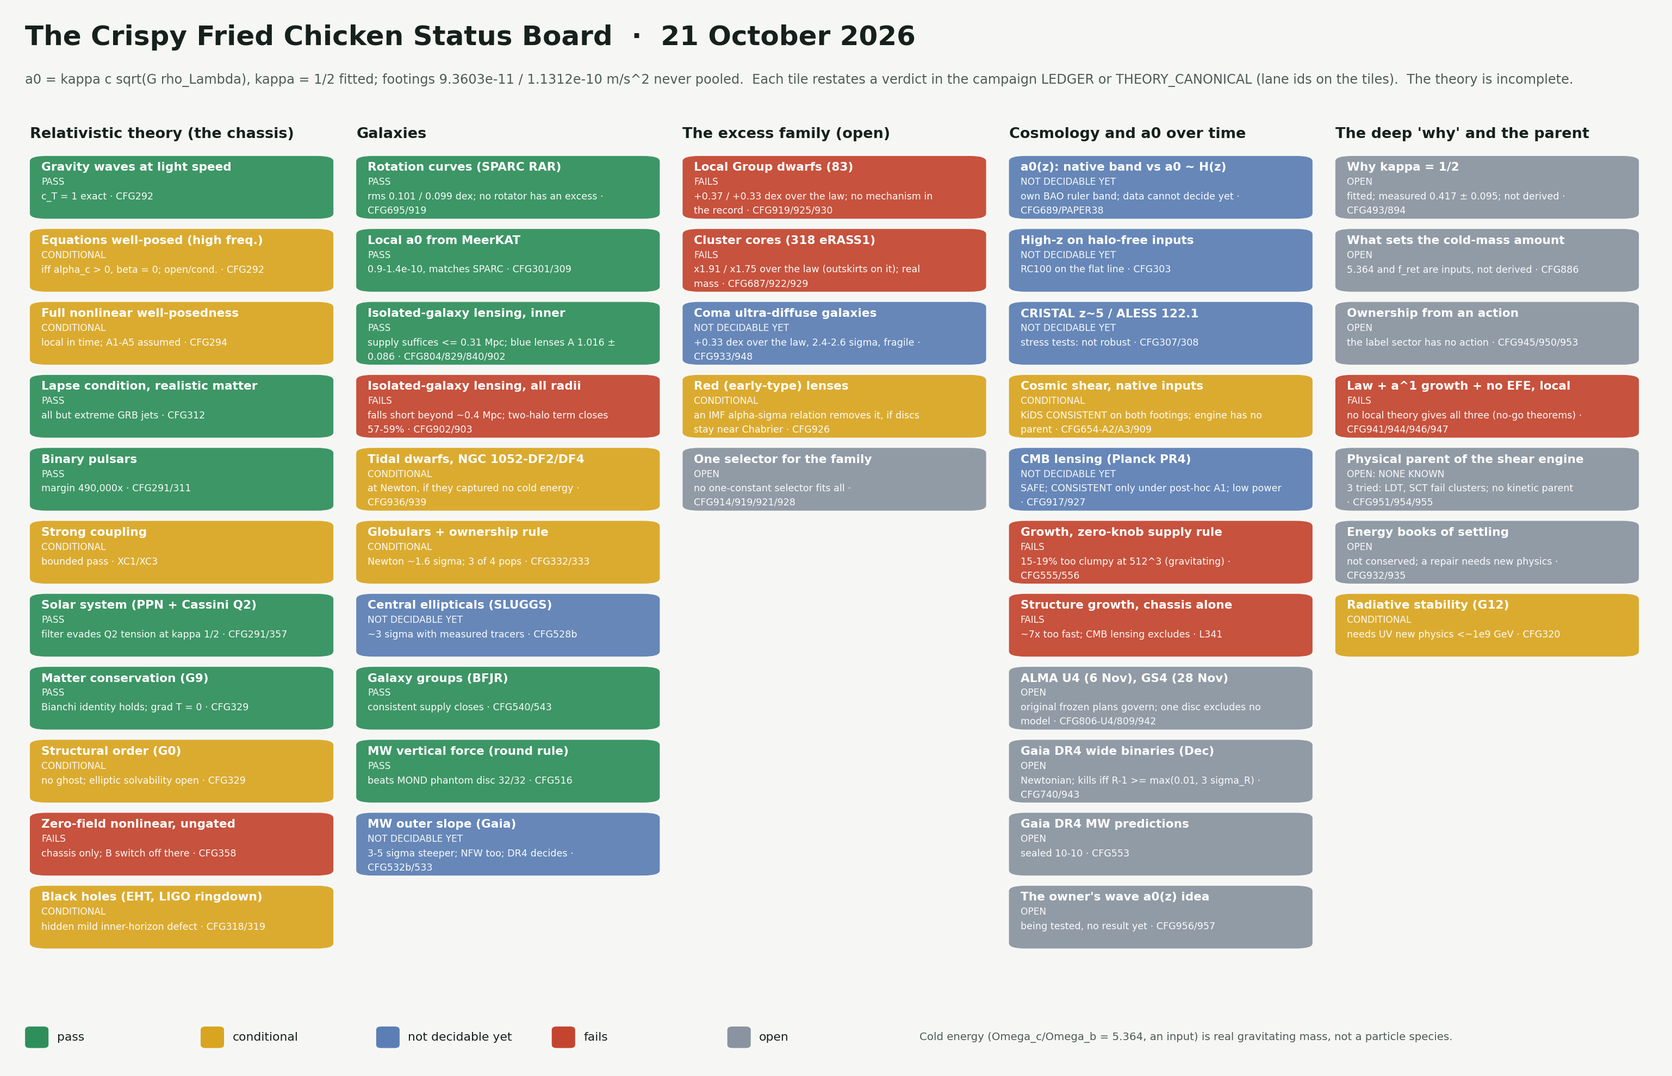
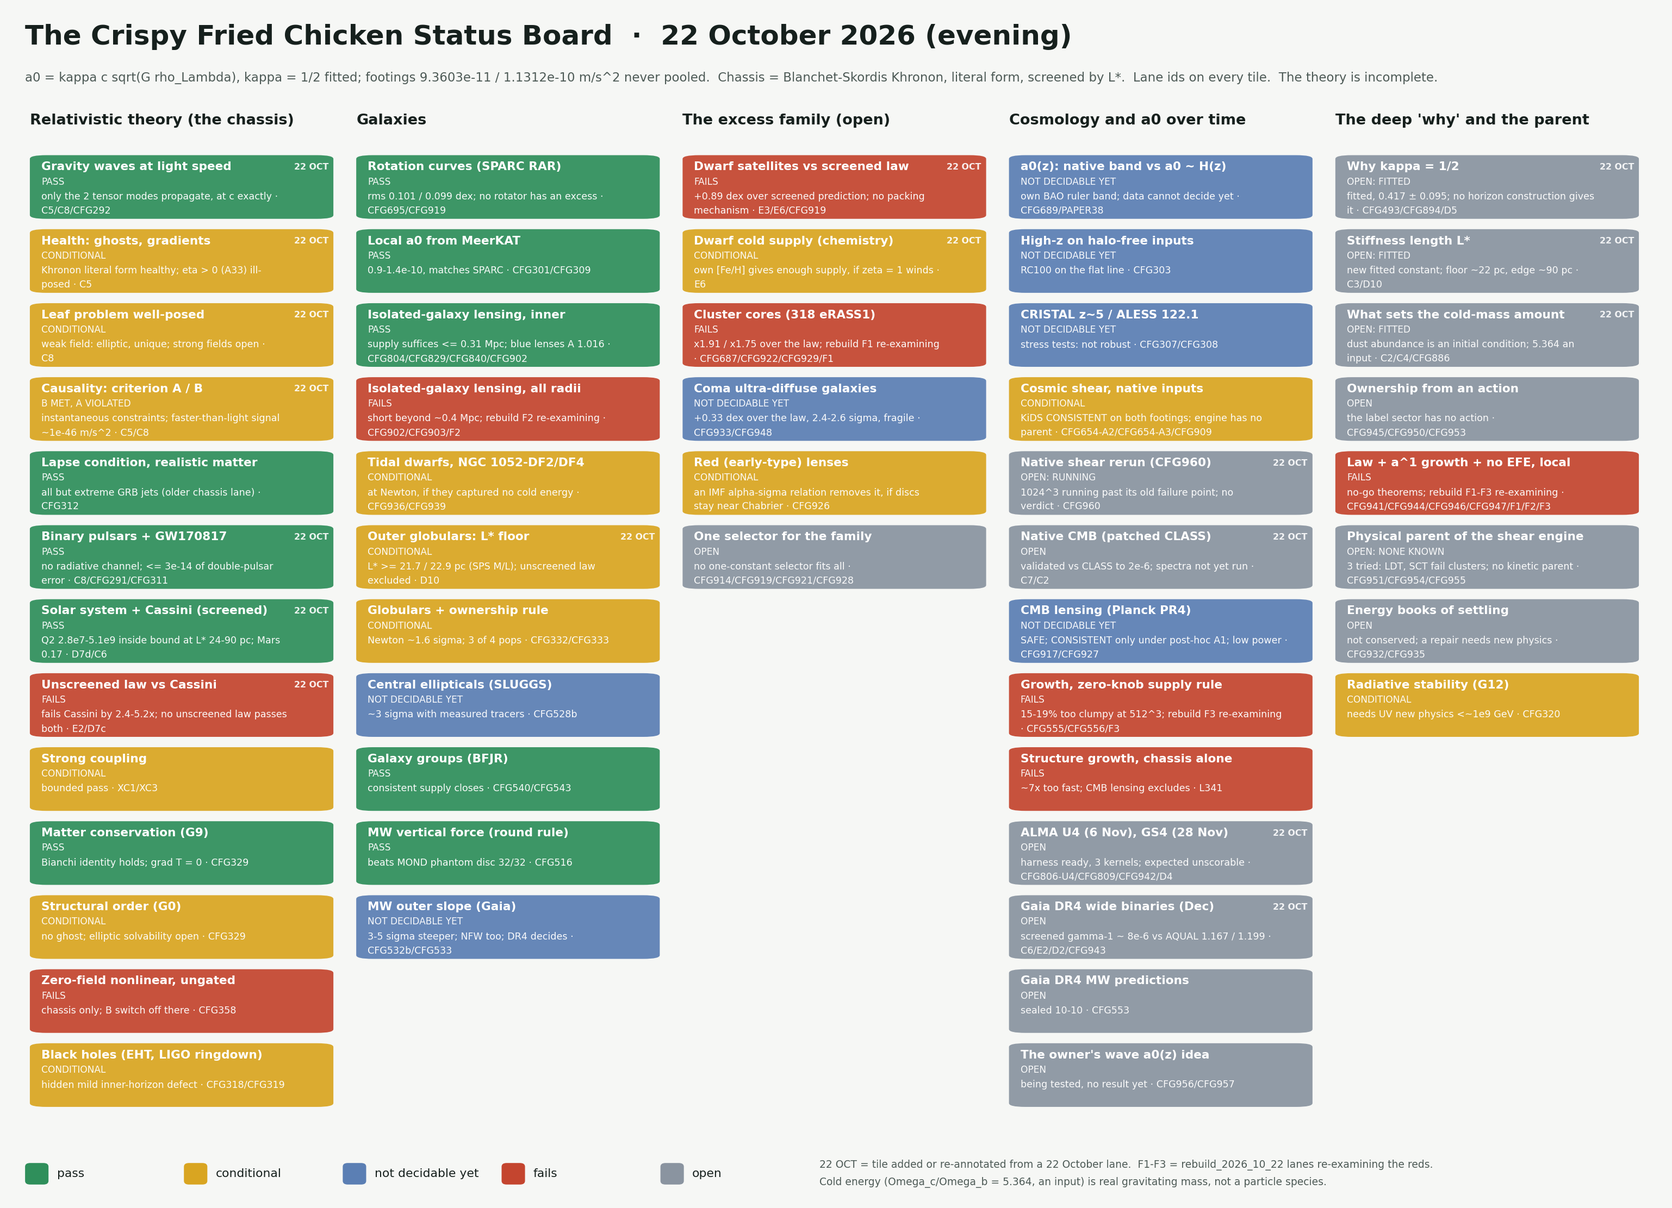
Status board image redrawn to the 22 October evening state (explainers/make_status_board.py, matplotlib; --mutate strips one evidence lane and must fail). No tile changed colour; 17 tiles added or re-annotated from committed 22 October lanes (Khronon literal chassis C5/C8, causality A violated/B met

diff --git a/explainers/make_status_board.py b/explainers/make_status_board.py
@@ -1,0 +1,220 @@
+#!/usr/bin/env python3
+"""The Crispy Fried Chicken status board, 22 October 2026 (evening). Plot only.
+
+Every tile restates a verdict recorded in campaign_fresh_gravity/LEDGER.md, THEORY_CANONICAL_2026-10-18.md, or a
+committed lane of 22 October (doors_push_2026_10_22/, covariant_push_2026_10_22/, summarised in
+covariant_push_2026_10_22/THEORY_V3_DRAFT.md). Layout and colours follow the 21 October board
+(campaign_fresh_gravity/closure_map/status_picture_2026_10_21.py, left unedited).
+
+Re-scoring rule for this board: a tile changes colour only if a committed 22 October lane changes it; nothing turns
+green without a committed lane that passes it; unresolved reds stay red. Each tile records its 21 October colour
+(`prev`, None for a tile new on this board) so the checks below can enforce that rule.
+
+kappa = 1/2 is FITTED; footings never pooled; cold energy is real gravitating mass, not a particle species;
+the theory is not closed.
+
+Run:  OMP_NUM_THREADS=1 python3 explainers/make_status_board.py            (writes explainers/img/status_board.png)
+      OMP_NUM_THREADS=1 python3 explainers/make_status_board.py --mutate   (strips one tile's evidence lane; the
+                                                                            checks must FAIL and nothing is written)
+One core, seconds, < 0.3 GB.
+"""
+import copy
+import os
+import re
+import sys
+import textwrap
+
+import matplotlib
+matplotlib.use("Agg")
+import matplotlib.pyplot as plt
+from matplotlib.patches import FancyBboxPatch
+
+HERE = os.path.dirname(os.path.abspath(__file__))
+OUT = os.path.join(HERE, "img", "status_board.png")
+
+COL = {"PASS": "#2f8f5b", "COND": "#d9a521", "OPEN": "#8a94a0", "FAIL": "#c4452f", "UNDEC": "#5b7fb4"}
+LAB = {"PASS": "pass", "COND": "conditional", "OPEN": "open", "FAIL": "fails", "UNDEC": "not decidable yet"}
+COLUMNS = ["Relativistic theory (the chassis)", "Galaxies", "The excess family (open)",
+           "Cosmology and a0 over time", "The deep 'why' and the parent"]
+# Lane ids committed on 22 October (doors push D*/E*, covariant push C*, CFG960 amendment A6, rebuild brief F*).
+LANE_22 = re.compile(r"^(C[1-8]|D\d+[a-d]?|E[1-6]|CFG960|F[1-4])$")
+
+
+def T(col, name, st, note, lanes, prev, lab=None, new22=False):
+    """One tile: column index, label, colour (status), note, evidence lane ids, 21 October colour."""
+    return dict(col=col, name=name, st=st, note=note, lanes=list(lanes), prev=prev, lab=lab, new22=new22)
+
+
+TILES = [
+    # ---- column 0: the chassis, now the Blanchet-Skordis Khronon theory in its literal form (C4) ----
+    T(0, "Gravity waves at light speed", "PASS", "only the 2 tensor modes propagate, at c exactly", ["C5", "C8", "CFG292"], "PASS", new22=True),
+    T(0, "Health: ghosts, gradients", "COND", "Khronon literal form healthy; eta > 0 (A33) ill-posed", ["C5"], "COND", new22=True),
+    T(0, "Leaf problem well-posed", "COND", "weak field: elliptic, unique; strong fields open", ["C8"], "COND", new22=True),
+    T(0, "Causality: criterion A / B", "COND", "instantaneous constraints; faster-than-light signal ~1e-46 m/s^2", ["C5", "C8"], None,
+      lab="B met, A violated", new22=True),
+    T(0, "Lapse condition, realistic matter", "PASS", "all but extreme GRB jets (older chassis lane)", ["CFG312"], "PASS"),
+    T(0, "Binary pulsars + GW170817", "PASS", "no radiative channel; <= 3e-14 of double-pulsar error", ["C8", "CFG291", "CFG311"], "PASS", new22=True),
+    T(0, "Solar system + Cassini (screened)", "PASS", "Q2 2.8e7-5.1e9 inside bound at L* 24-90 pc; Mars 0.17", ["D7d", "C6"], "PASS",
+      new22=True),
+    T(0, "Unscreened law vs Cassini", "FAIL", "fails Cassini by 2.4-5.2x; no unscreened law passes both", ["E2", "D7c"], None, new22=True),
+    T(0, "Strong coupling", "COND", "bounded pass", ["XC1", "XC3"], "COND"),
+    T(0, "Matter conservation (G9)", "PASS", "Bianchi identity holds; grad T = 0", ["CFG329"], "PASS"),
+    T(0, "Structural order (G0)", "COND", "no ghost; elliptic solvability open", ["CFG329"], "COND"),
+    T(0, "Zero-field nonlinear, ungated", "FAIL", "chassis only; B switch off there", ["CFG358"], "FAIL"),
+    T(0, "Black holes (EHT, LIGO ringdown)", "COND", "hidden mild inner-horizon defect", ["CFG318", "CFG319"], "COND"),
+    # ---- column 1: galaxies ----
+    T(1, "Rotation curves (SPARC RAR)", "PASS", "rms 0.101 / 0.099 dex; no rotator has an excess", ["CFG695", "CFG919"], "PASS"),
+    T(1, "Local a0 from MeerKAT", "PASS", "0.9-1.4e-10, matches SPARC", ["CFG301", "CFG309"], "PASS"),
+    T(1, "Isolated-galaxy lensing, inner", "PASS", "supply suffices <= 0.31 Mpc; blue lenses A 1.016", ["CFG804", "CFG829", "CFG840", "CFG902"], "PASS"),
+    T(1, "Isolated-galaxy lensing, all radii", "FAIL", "short beyond ~0.4 Mpc; rebuild F2 re-examining", ["CFG902", "CFG903", "F2"], "FAIL"),
+    T(1, "Tidal dwarfs, NGC 1052-DF2/DF4", "COND", "at Newton, if they captured no cold energy", ["CFG936", "CFG939"], "COND"),
+    T(1, "Outer globulars: L* floor", "COND", "L* >= 21.7 / 22.9 pc (SPS M/L); unscreened law excluded", ["D10"], "COND", new22=True),
+    T(1, "Globulars + ownership rule", "COND", "Newton ~1.6 sigma; 3 of 4 pops", ["CFG332", "CFG333"], "COND"),
+    T(1, "Central ellipticals (SLUGGS)", "UNDEC", "~3 sigma with measured tracers", ["CFG528b"], "UNDEC"),
+    T(1, "Galaxy groups (BFJR)", "PASS", "consistent supply closes", ["CFG540", "CFG543"], "PASS"),
+    T(1, "MW vertical force (round rule)", "PASS", "beats MOND phantom disc 32/32", ["CFG516"], "PASS"),
+    T(1, "MW outer slope (Gaia)", "UNDEC", "3-5 sigma steeper; NFW too; DR4 decides", ["CFG532b", "CFG533"], "UNDEC"),
+    # ---- column 2: the excess family ----
+    T(2, "Dwarf satellites vs screened law", "FAIL", "+0.89 dex over screened prediction; no packing mechanism",
+      ["E3", "E6", "CFG919"], "FAIL", new22=True),
+    T(2, "Dwarf cold supply (chemistry)", "COND", "own [Fe/H] gives enough supply, if zeta = 1 winds", ["E6"], None, new22=True),
+    T(2, "Cluster cores (318 eRASS1)", "FAIL", "x1.91 / x1.75 over the law; rebuild F1 re-examining", ["CFG687", "CFG922", "CFG929", "F1"], "FAIL"),
+    T(2, "Coma ultra-diffuse galaxies", "UNDEC", "+0.33 dex over the law, 2.4-2.6 sigma, fragile", ["CFG933", "CFG948"], "UNDEC"),
+    T(2, "Red (early-type) lenses", "COND", "an IMF alpha-sigma relation removes it, if discs stay near Chabrier",
+      ["CFG926"], "COND"),
+    T(2, "One selector for the family", "OPEN", "no one-constant selector fits all", ["CFG914", "CFG919", "CFG921", "CFG928"], "OPEN"),
+    # ---- column 3: cosmology and a0 over time ----
+    T(3, "a0(z): native band vs a0 ~ H(z)", "UNDEC", "own BAO ruler band; data cannot decide yet", ["CFG689", "PAPER38"], "UNDEC"),
+    T(3, "High-z on halo-free inputs", "UNDEC", "RC100 on the flat line", ["CFG303"], "UNDEC"),
+    T(3, "CRISTAL z~5 / ALESS 122.1", "UNDEC", "stress tests: not robust", ["CFG307", "CFG308"], "UNDEC"),
+    T(3, "Cosmic shear, native inputs", "COND", "KiDS CONSISTENT on both footings; engine has no parent",
+      ["CFG654-A2", "CFG654-A3", "CFG909"], "COND"),
+    T(3, "Native shear rerun (CFG960)", "OPEN", "1024^3 running past its old failure point; no verdict", ["CFG960"], None,
+      lab="open: running", new22=True),
+    T(3, "Native CMB (patched CLASS)", "OPEN", "validated vs CLASS to 2e-6; spectra not yet run", ["C7", "C2"], None, new22=True),
+    T(3, "CMB lensing (Planck PR4)", "UNDEC", "SAFE; CONSISTENT only under post-hoc A1; low power", ["CFG917", "CFG927"], "UNDEC"),
+    T(3, "Growth, zero-knob supply rule", "FAIL", "15-19% too clumpy at 512^3; rebuild F3 re-examining", ["CFG555", "CFG556", "F3"], "FAIL"),
+    T(3, "Structure growth, chassis alone", "FAIL", "~7x too fast; CMB lensing excludes", ["L341"], "FAIL"),
+    T(3, "ALMA U4 (6 Nov), GS4 (28 Nov)", "OPEN", "harness ready, 3 kernels; expected unscorable", ["CFG806-U4", "CFG809", "CFG942", "D4"],
+      "OPEN", new22=True),
+    T(3, "Gaia DR4 wide binaries (Dec)", "OPEN", "screened gamma-1 ~ 8e-6 vs AQUAL 1.167 / 1.199", ["C6", "E2", "D2", "CFG943"], "OPEN",
+      new22=True),
+    T(3, "Gaia DR4 MW predictions", "OPEN", "sealed 10-10", ["CFG553"], "OPEN"),
+    T(3, "The owner's wave a0(z) idea", "OPEN", "being tested, no result yet", ["CFG956", "CFG957"], "OPEN"),
+    # ---- column 4: the deep 'why' and the parent ----
+    T(4, "Why kappa = 1/2", "OPEN", "fitted, 0.417 ± 0.095; no horizon construction gives it", ["CFG493", "CFG894", "D5"], "OPEN",
+      lab="open: fitted", new22=True),
+    T(4, "Stiffness length L*", "OPEN", "new fitted constant; floor ~22 pc, edge ~90 pc", ["C3", "D10"], None,
+      lab="open: fitted", new22=True),
+    T(4, "What sets the cold-mass amount", "OPEN", "dust abundance is an initial condition; 5.364 an input",
+      ["C2", "C4", "CFG886"], "OPEN", lab="open: fitted", new22=True),
+    T(4, "Ownership from an action", "OPEN", "the label sector has no action", ["CFG945", "CFG950", "CFG953"], "OPEN"),
+    T(4, "Law + a^1 growth + no EFE, local", "FAIL", "no-go theorems; rebuild F1-F3 re-examining",
+      ["CFG941", "CFG944", "CFG946", "CFG947", "F1", "F2", "F3"], "FAIL"),
+    T(4, "Physical parent of the shear engine", "OPEN", "3 tried: LDT, SCT fail clusters; no kinetic parent",
+      ["CFG951", "CFG954", "CFG955"], "OPEN", lab="open: none known"),
+    T(4, "Energy books of settling", "OPEN", "not conserved; a repair needs new physics", ["CFG932", "CFG935"], "OPEN"),
+    T(4, "Radiative stability (G12)", "COND", "needs UV new physics <~1e9 GeV", ["CFG320"], "COND"),
+]
+
+# Reds that must stay red until a committed rebuild lane says otherwise.
+MUST_STAY_RED = ["Cluster cores (318 eRASS1)", "Isolated-galaxy lensing, all radii", "Growth, zero-knob supply rule",
+                 "Law + a^1 growth + no EFE, local"]
+WRAP = 52  # characters per note line at fontsize 8.4
+
+
+def lane_text(t):
+    return "/".join(t["lanes"])
+
+
+def check(tiles):
+    errs = []
+    for t in tiles:
+        if not t["lanes"] or any(not str(x).strip() for x in t["lanes"]):
+            errs.append(f"no evidence lane: {t['name']}")
+        if t["st"] not in COL:
+            errs.append(f"bad colour {t['st']}: {t['name']}")
+        changed = t["prev"] is not None and t["st"] != t["prev"]
+        if changed and not any(LANE_22.match(x) for x in t["lanes"]):
+            errs.append(f"colour changed without a 22 October lane: {t['name']}")
+        if t["st"] == "PASS" and t["prev"] != "PASS":
+            errs.append(f"turned green: {t['name']} (needs a committed passing lane; refused on this board)")
+        if t["prev"] is None and not t["new22"]:
+            errs.append(f"new tile not flagged as 22 October: {t['name']}")
+        lines = textwrap.wrap(f"{t['note']} · {lane_text(t)}", WRAP)
+        if len(lines) > 2:
+            errs.append(f"note too long ({len(lines)} lines): {t['name']}")
+    names = {t["name"]: t for t in tiles}
+    for n in MUST_STAY_RED:
+        if n not in names or names[n]["st"] != "FAIL":
+            errs.append(f"must stay red: {n}")
+    if len(names) != len(tiles):
+        errs.append("duplicate tile names")
+    return errs
+
+
+def draw(tiles, out):
+    ncol = len(COLUMNS)
+    nmax = max(sum(1 for t in tiles if t["col"] == c) for c in range(ncol))
+    W, H = 20.5, 2.6 + 0.94 * nmax                   # inches; each tile ~0.94 in tall as on the 21 October board
+    fig = plt.figure(figsize=(W, H), dpi=150)
+    fig.patch.set_facecolor("#f6f7f5")
+    top_in, bot_in = 1.25, 0.95                      # header and legend bands, inches
+    ax = fig.add_axes([0.012, bot_in / H, 0.976, 1 - (top_in + bot_in) / H])
+    ax.set_xlim(0, ncol); ax.set_ylim(-0.25, nmax + 0.65); ax.axis("off")
+    fig.text(0.015, 1 - 0.55 / H, "The Crispy Fried Chicken Status Board  ·  22 October 2026 (evening)", fontsize=24,
+             fontweight="bold", color="#16201d")
+    fig.text(0.015, 1 - 1.0 / H, "a0 = kappa c sqrt(G rho_Lambda), kappa = 1/2 fitted; footings 9.3603e-11 / 1.1312e-10 m/s^2 never "
+             "pooled.  Chassis = Blanchet-Skordis Khronon, literal form, screened by L*.  Lane ids on every tile.  "
+             "The theory is incomplete.", fontsize=11.0, color="#4d5a56")
+    for c, title in enumerate(COLUMNS):
+        ax.text(c + 0.03, nmax + 0.4, title, fontsize=13, fontweight="bold", color="#16201d", va="center")
+        for k, t in enumerate([t for t in tiles if t["col"] == c]):
+            y = nmax - 0.5 - k
+            ax.add_patch(FancyBboxPatch((c + 0.03, y - 0.43), 0.93, 0.86, boxstyle="round,pad=0.0,rounding_size=0.05",
+                                        facecolor=COL[t["st"]], edgecolor="none", alpha=0.93))
+            ax.text(c + 0.065, y + 0.27, t["name"], fontsize=10.4, fontweight="bold", color="white", va="center")
+            lab = (t["lab"] or LAB[t["st"]]).upper()
+            ax.text(c + 0.065, y + 0.07, lab, fontsize=8.2, color="white", va="center", alpha=0.95)
+            if t["new22"]:
+                ax.text(c + 0.945, y + 0.27, "22 OCT", fontsize=7.6, fontweight="bold", color="white", va="center",
+                        ha="right", alpha=0.9)
+            for j, ln in enumerate(textwrap.wrap(f"{t['note']} · {lane_text(t)}", WRAP)):
+                ax.text(c + 0.065, y - 0.13 - 0.19 * j, ln, fontsize=8.4, color="white", va="center", alpha=0.97)
+    lx, ly = 0.015, 0.42 / H
+    for st in ("PASS", "COND", "UNDEC", "FAIL", "OPEN"):
+        fig.patches.append(FancyBboxPatch((lx, ly - 0.01 * 13.2 / H), 0.014, 0.02 * 13.2 / H,
+                                          boxstyle="round,pad=0,rounding_size=0.003", facecolor=COL[st], edgecolor="none",
+                                          transform=fig.transFigure, figure=fig))
+        fig.text(lx + 0.019, ly, LAB[st], fontsize=10.5, va="center", color="#16201d")
+        lx += 0.095
+    fig.text(0.49, ly + 0.11 / H, "22 OCT = tile added or re-annotated from a 22 October lane.  F1-F3 = rebuild_2026_10_22 "
+             "lanes re-examining the reds.", fontsize=9.0, va="center", color="#4d5a56")
+    fig.text(0.49, ly - 0.11 / H, "Cold energy (Omega_c/Omega_b = 5.364, an input) is real gravitating mass, not a particle species.",
+             fontsize=9.0, va="center", color="#4d5a56")
+    fig.savefig(out, dpi=150, facecolor=fig.get_facecolor())
+    plt.close(fig)
+
+
+def main():
+    mutate = "--mutate" in sys.argv[1:]
+    tiles = copy.deepcopy(TILES)
+    if mutate:
+        tiles[7]["lanes"] = []                       # strip one tile's evidence lane: the checks must fail
+    errs = check(tiles)
+    print(f"{len(tiles)} tiles; {sum(t['new22'] for t in tiles)} from 22 October lanes; "
+          f"{sum(1 for t in tiles if t['prev'] is not None and t['st'] != t['prev'])} recoloured vs 21 October")
+    if errs:
+        for e in errs:
+            print("CHECK FAIL:", e)
+        print("MUTATE: checks failed as required; nothing written." if mutate else "nothing written.")
+        sys.exit(1)
+    if mutate:
+        print("MUTATE: checks did NOT catch the stripped lane")
+        sys.exit(2)
+    draw(tiles, OUT)
+    print("all checks PASS; wrote", os.path.relpath(OUT, os.path.dirname(HERE)))
+
+
+if __name__ == "__main__":
+    main()

diff --git a/explainers/crispy_fried_chicken_status_board.md b/explainers/crispy_fried_chicken_status_board.md
@@ -1,6 +1,6 @@
 # The Crispy Fried Chicken Status Board
 
-*Where the theory stands, as of 22 October 2026 (evening). The theory is not complete. The tile picture below is still the 21 October one; the changes since then are listed in the next section.*
+*Where the theory stands, as of 22 October 2026 (evening). The theory is not complete. The tile picture below shows the 22 October evening state; the 21 October picture is kept as [`img/status_board_2026-10-21.png`](img/status_board_2026-10-21.png).*
 
 The theory makes one claim: the acceleration scale where galaxies stop obeying Newton, a₀, is set by the density of dark energy.
 
@@ -14,7 +14,7 @@ The ½ is **fitted**, not derived; the current measurement is κ = 0.417 ± 0.09
 
 ## How to read it
 
-Each tile is one test. The colour restates a verdict recorded in the campaign LEDGER ([`campaign_fresh_gravity/LEDGER.md`](../campaign_fresh_gravity/LEDGER.md)) or in the dated notes of [`THEORY_CANONICAL_2026-10-18.md`](../campaign_fresh_gravity/THEORY_CANONICAL_2026-10-18.md), and the lane IDs on each tile point to the scripts that produced it. Verdicts come from committed scripts with pass/fail rules frozen *before* the data were read, plus a control that is deliberately broken and must fail. Where a colour depends on a rule added afterwards (post hoc), the tile says so.
+The picture is the 22 October evening state, drawn by [`make_status_board.py`](make_status_board.py); tiles marked **22 OCT** were added or re-annotated from a 22 October lane (listed in the next section). Each tile is one test. The colour restates a verdict recorded in the campaign LEDGER ([`campaign_fresh_gravity/LEDGER.md`](../campaign_fresh_gravity/LEDGER.md)) or in the dated notes of [`THEORY_CANONICAL_2026-10-18.md`](../campaign_fresh_gravity/THEORY_CANONICAL_2026-10-18.md), and the lane IDs on each tile point to the scripts that produced it. Verdicts come from committed scripts with pass/fail rules frozen *before* the data were read, plus a control that is deliberately broken and must fail. Where a colour depends on a rule added afterwards (post hoc), the tile says so.
 
 | colour | meaning |
 |---|---|
@@ -44,7 +44,7 @@ Papers: PAPER58 v1.1, DOI [10.5281/zenodo.23579379](https://doi.org/10.5281/zeno
   unscreened member of the record's law family passes both Cassini and SPARC (D7c).
 - **🟨 Globulars → L★ floor, measured with the field solved**: L★ ≥ 21.7 pc (canonical) / 22.9 pc (alt) with the SPS
   M/L prior; 3–24 pc across M/L priors (D10). The unscreened law is excluded in every case.
-- **🟨 Dwarf satellites**: +0.89 dex above the screened prediction (not +2.15 dex above Newton, E3). The theory's
+- **Dwarf satellites** (the tile stays 🟥; the cold-supply tile is 🟨): +0.89 dex above the screened prediction (not +2.15 dex above Newton, E3). The theory's
   dynamics cannot fix a satellite's cold supply; the satellites' own chemistry says it is there, conditional on wind
   metallicity and no pre-enrichment (E6).
 - **Gaia DR4 (December 2026) is now a clean decider**: screened γ_v − 1 ≈ 8×10⁻⁶ vs law-first (AQUAL) 1.167 / 1.199;
@@ -58,6 +58,24 @@ Papers: PAPER58 v1.1, DOI [10.5281/zenodo.23579379](https://doi.org/10.5281/zeno
 - **Column 5**: κ is not derived — no horizon construction gives ½ without hand-picking it, and the "thermal" Z/4π is
   Milgrom's relation, a postulate (D5, A75). The dust abundance is an initial condition (C2, C4). L★ is a new fitted
   constant (C3). The skew-sign test of n = 1 vs n = 2 is retired (D1).
+- **The picture, tile by tile (22 October evening).** No tile changed colour: no committed 22 October lane passes or fails
+  a tile that the 21 October board scored differently, and nothing was turned green. Tiles added (new colour on the board)
+  or re-annotated (colour kept), each with its lane:
+  - Column 1, re-annotated to the Khronon literal form: gravity waves at c 🟩 (C5, C8); health 🟨 (C5); leaf problem
+    well-posed 🟨, weak field only (C8); binary pulsars + GW170817 🟩 (C8); Solar System + Cassini, screened 🟩 (D7d, C6;
+    C6's own frozen rule reads UNDECIDED on one float-rounding check).
+  - Column 1, added: causality 🟨 "criterion B met, criterion A violated" (C5, C8); unscreened law vs Cassini 🟥 (E2, D7c).
+  - Column 2, added: outer globulars, L★ floor 🟨 (D10). The older globulars + ownership tile is kept.
+  - Column 3: the Local Group dwarfs tile is re-scored against the screened prediction and **stays 🟥** (E3, E6): +0.89 dex
+    above it, and both lanes find no mechanism in the record that packs the cold energy inside the half-light radius.
+    Added: dwarf cold supply from the satellites' own chemistry 🟨, conditional on ζ = 1 winds and no pre-enrichment (E6).
+  - Column 4, added: native shear rerun ⬜ running (CFG960); native CMB ⬜, validated, spectra pending (C7, C2).
+    Re-annotated: ALMA ⬜, harness ready, expected unscorable (D4); Gaia DR4 wide binaries ⬜, screened γ_v − 1 ≈ 8×10⁻⁶ vs
+    AQUAL 1.167 / 1.199 (C6, E2, D2).
+  - Column 5: κ ⬜ fitted (D5); new tile L★ ⬜ fitted (C3, D10); cold-mass amount ⬜, dust abundance an initial condition (C2, C4).
+  - **Still 🟥, being re-examined by the rebuild lanes F1–F3** ([`rebuild_2026_10_22/`](../rebuild_2026_10_22/BRIEF.md)):
+    cluster cores (F1), isolated-galaxy lensing at all radii (F2), growth under the zero-knob supply rule (F3), and the
+    no-go "law + a¹ growth + no external-field effect" (F1–F3). No rebuild verdict exists yet.
 - **Corrected in the record**: the native H₀ is 67.2–68.6 (the ordinary Hubble tension), not 55–57.5 (C2; PAPER58 v1.1).
 
 ## What changed since 9 October
@@ -182,4 +200,4 @@ The law wins where it is cleanest: rotation curves (0.10 dex, κ = ½ fitted), M
 
 ---
 
-κ = ½ is fitted, not derived. Cold energy is real gravitating mass that is not a particle species. The board is generated by [`campaign_fresh_gravity/closure_map/status_picture_2026_10_21.py`](../campaign_fresh_gravity/closure_map/status_picture_2026_10_21.py); the 9 October board's script, [`status_picture_2026_10_03.py`](../campaign_fresh_gravity/closure_map/status_picture_2026_10_03.py), is kept unedited. The a₀ chart is made by [`chart_a0z_one.py`](../campaign_fresh_gravity/CHART_a0z_rar_z0_5_2026-10-01/chart_a0z_one.py).
+κ = ½ is fitted, not derived. Cold energy is real gravitating mass that is not a particle species. The board is generated by [`make_status_board.py`](make_status_board.py) (`--mutate` must fail: it strips one tile's evidence lane); the 21 October board's script, [`campaign_fresh_gravity/closure_map/status_picture_2026_10_21.py`](../campaign_fresh_gravity/closure_map/status_picture_2026_10_21.py), and the 9 October board's script, [`status_picture_2026_10_03.py`](../campaign_fresh_gravity/closure_map/status_picture_2026_10_03.py), are kept unedited. The a₀ chart is made by [`chart_a0z_one.py`](../campaign_fresh_gravity/CHART_a0z_rar_z0_5_2026-10-01/chart_a0z_one.py).
